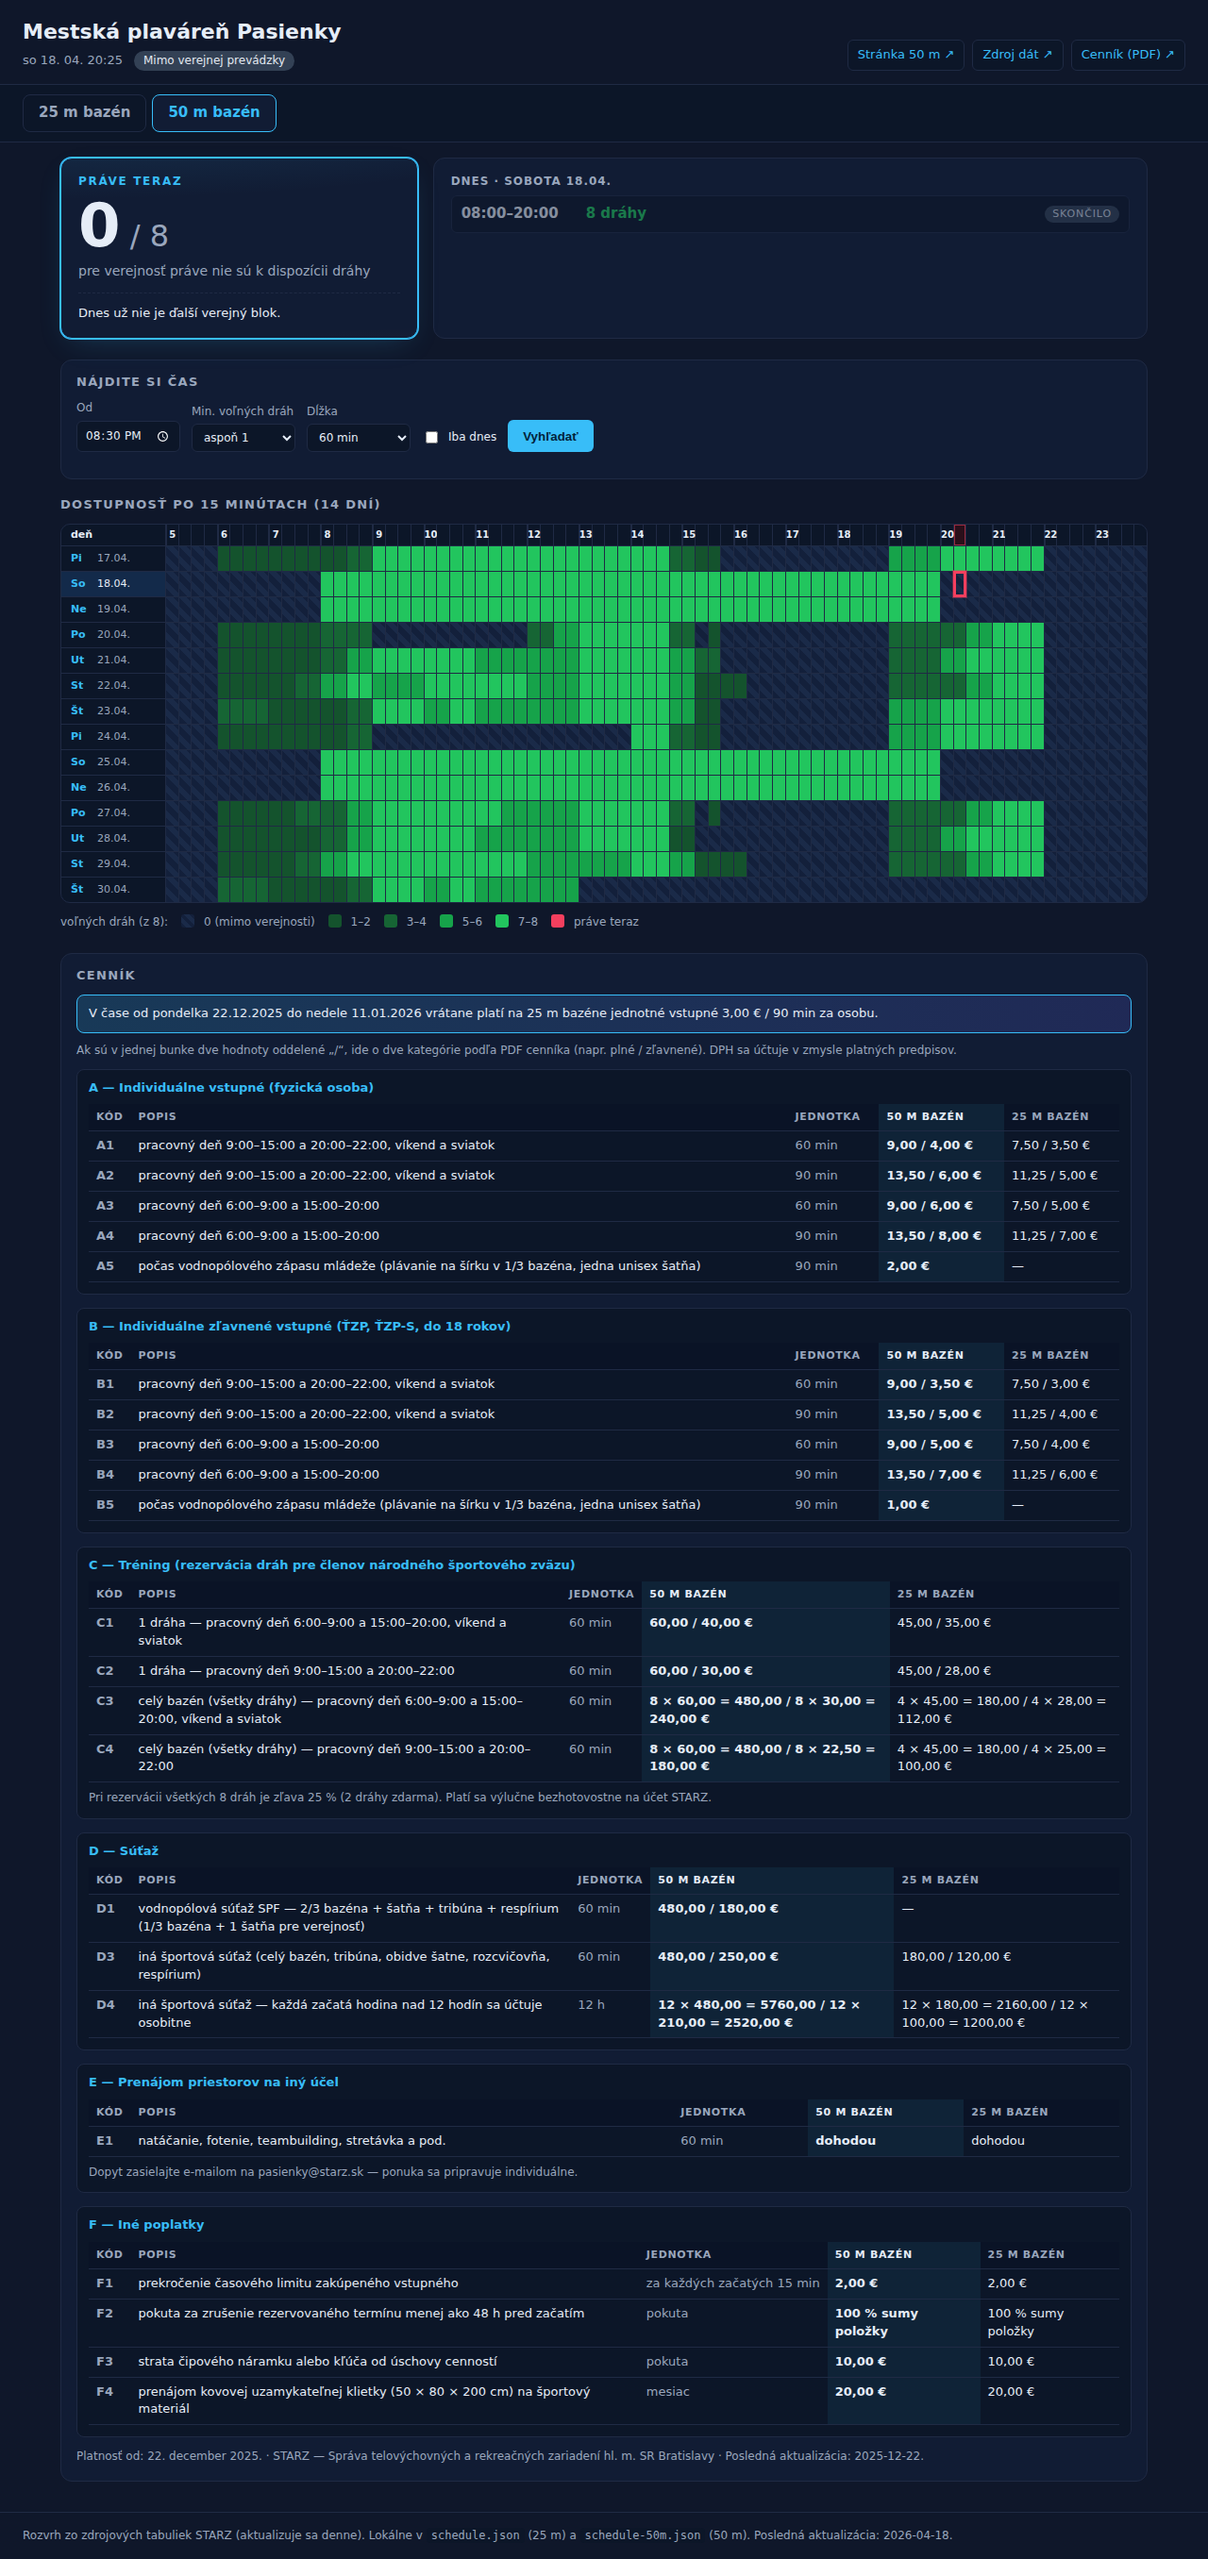
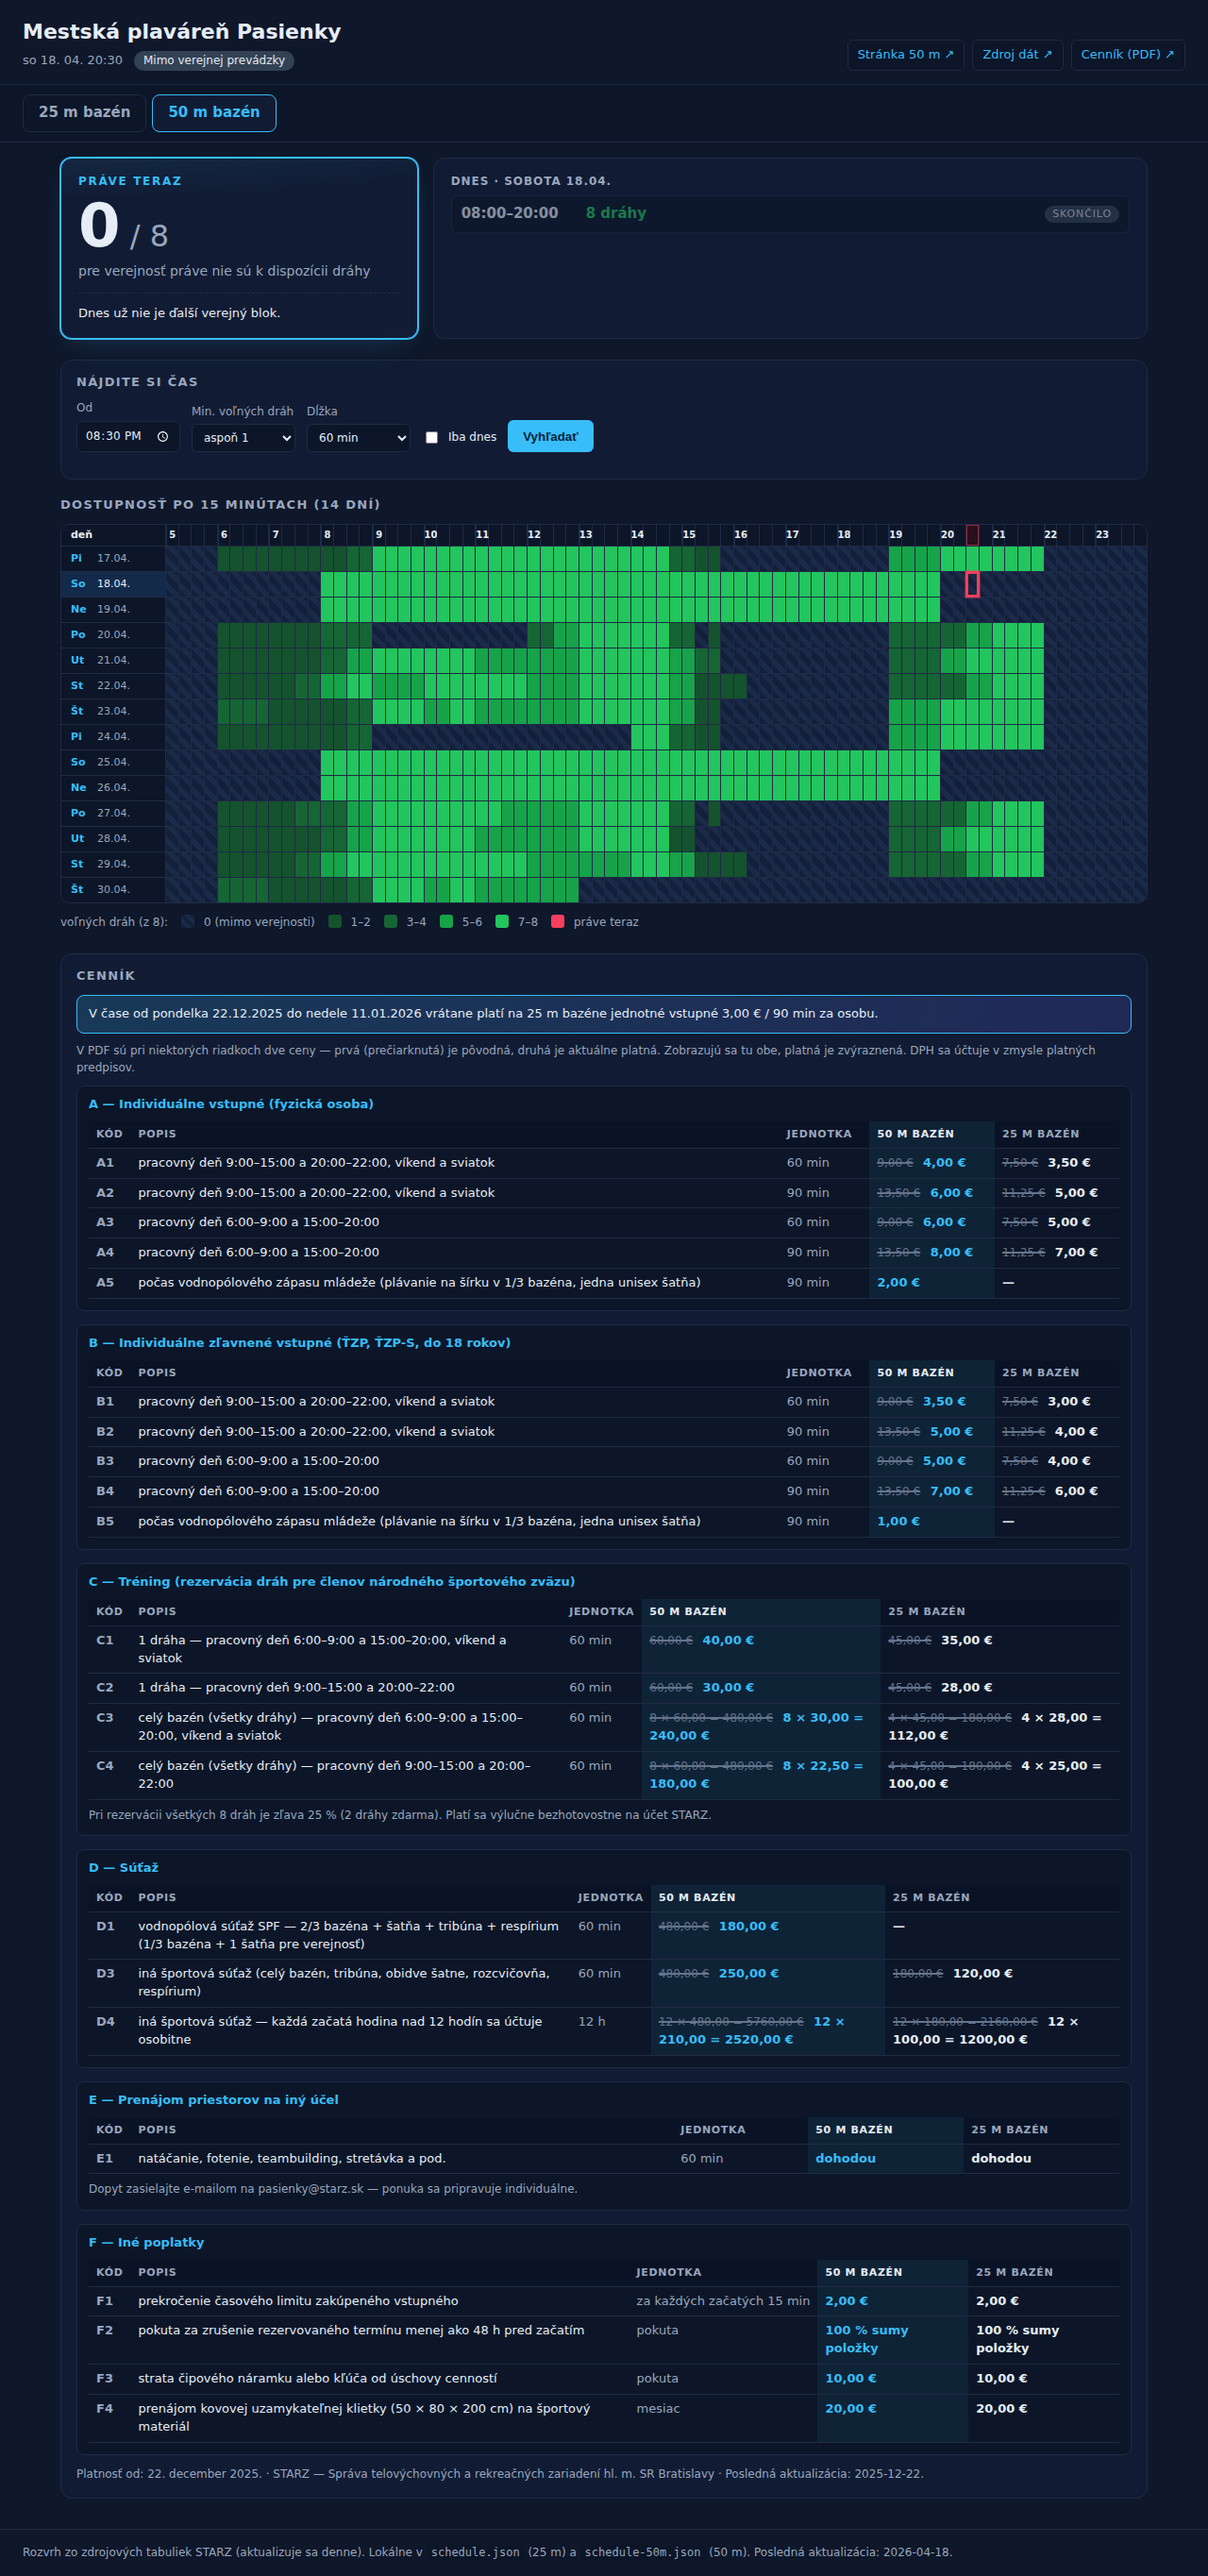
Show struck-through old price with valid new price
Split each pricing cell in pricing.json into p50Old/p50 and
p25Old/p25, with the first (struck-through in the PDF) kept for
context and the second rendered as the valid current price.

The price table renders the old value in muted gray with a
line-through and the new value bold (blue when it is the active
pool column), so both the history and the currently applicable
rate are visible at a glance.

https://claude.ai/code/session_01P178NkFA8qdQ2gPH2bS1Uq

diff --git a/app.js b/app.js
@@ -445,11 +445,17 @@ function renderPricing() {
     return;
   }
   const cur = state.pricing.currency || "€";
-  const fmtPrice = (v) => {
-    if (!v) return `<span class="empty">— doplňte —</span>`;
+  const withUnit = (v) => {
     if (v === "—" || v.toLowerCase() === "dohodou") return v;
     if (/\d/.test(v) && !v.includes(cur) && !v.includes("%")) return `${v} ${cur}`;
     return v;
+  };
+  const fmtPrice = (newVal, oldVal) => {
+    if (!newVal && !oldVal) return `<span class="empty">— doplňte —</span>`;
+    const parts = [];
+    if (oldVal) parts.push(`<span class="old">${withUnit(oldVal)}</span>`);
+    if (newVal) parts.push(`<span class="new">${withUnit(newVal)}</span>`);
+    return parts.join(" ");
   };
 
   if (banner) {
@@ -469,8 +475,8 @@ function renderPricing() {
         <td class="code">${r.code || ""}</td>
         <td class="desc">${r.label || ""}</td>
         <td class="unit">${r.unit || ""}</td>
-        <td${highlight50}>${fmtPrice(r.p50)}</td>
-        <td${highlight25}>${fmtPrice(r.p25)}</td>
+        <td${highlight50}>${fmtPrice(r.p50, r.p50Old)}</td>
+        <td${highlight25}>${fmtPrice(r.p25, r.p25Old)}</td>
       </tr>`;
     }).join("");
     const note = sec.note ? `<p class="section-note muted">${sec.note}</p>` : "";

diff --git a/styles.css b/styles.css
@@ -342,6 +342,16 @@ main { padding: 16px 24px 32px; max-width: 1200px; margin: 0 auto; }
   font-weight: 600;
 }
 .price-table .empty { color: #64748b; font-style: italic; font-weight: 400; font-size: 12px; }
+.price-table .old {
+  color: #64748b;
+  text-decoration: line-through;
+  text-decoration-thickness: 1.5px;
+  font-size: 12px;
+  margin-right: 6px;
+  font-weight: 400;
+}
+.price-table .new { color: var(--text); font-weight: 700; }
+.price-table td.active .new { color: var(--accent); }
 
 .pricing-section .section-note { margin: 8px 0 0; font-size: 12px; }
 .pricing-foot { margin: 12px 0 0; font-size: 12px; }
